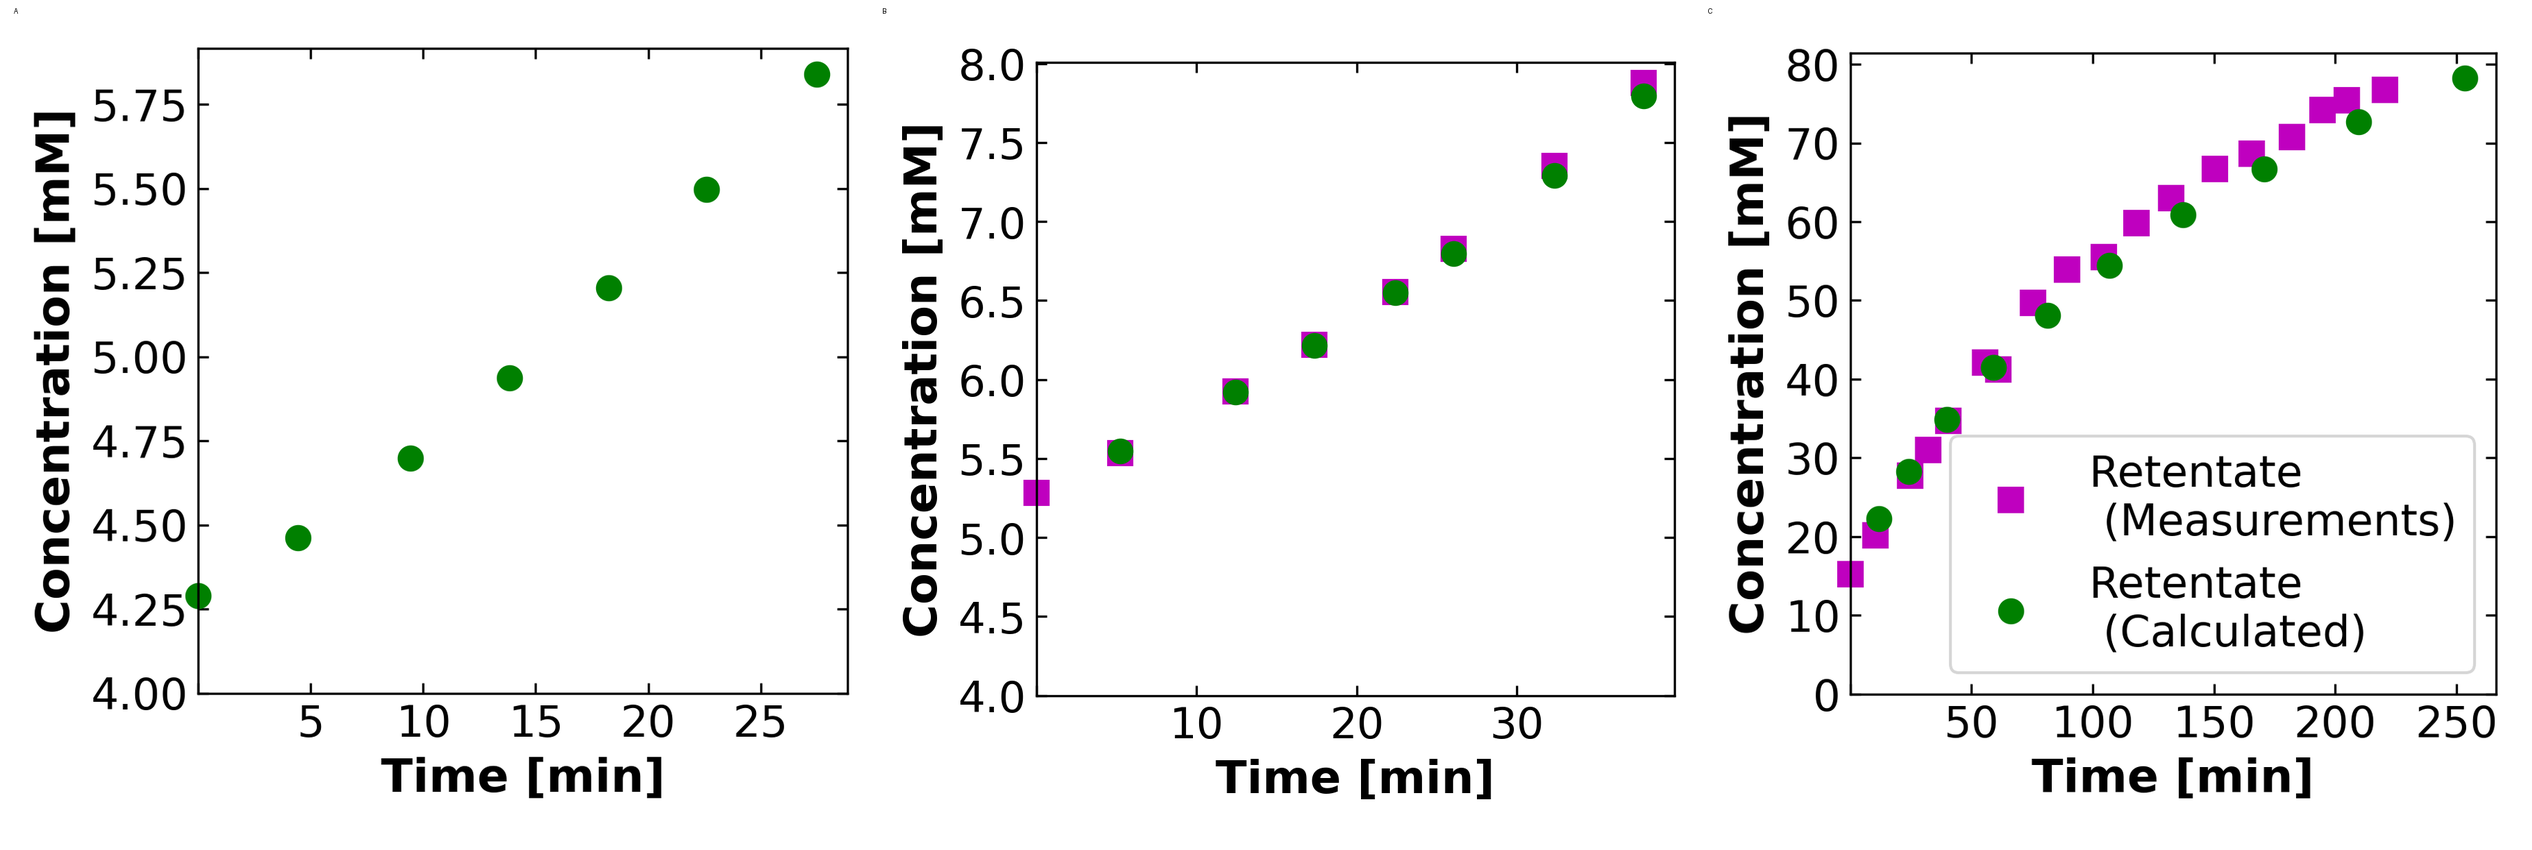
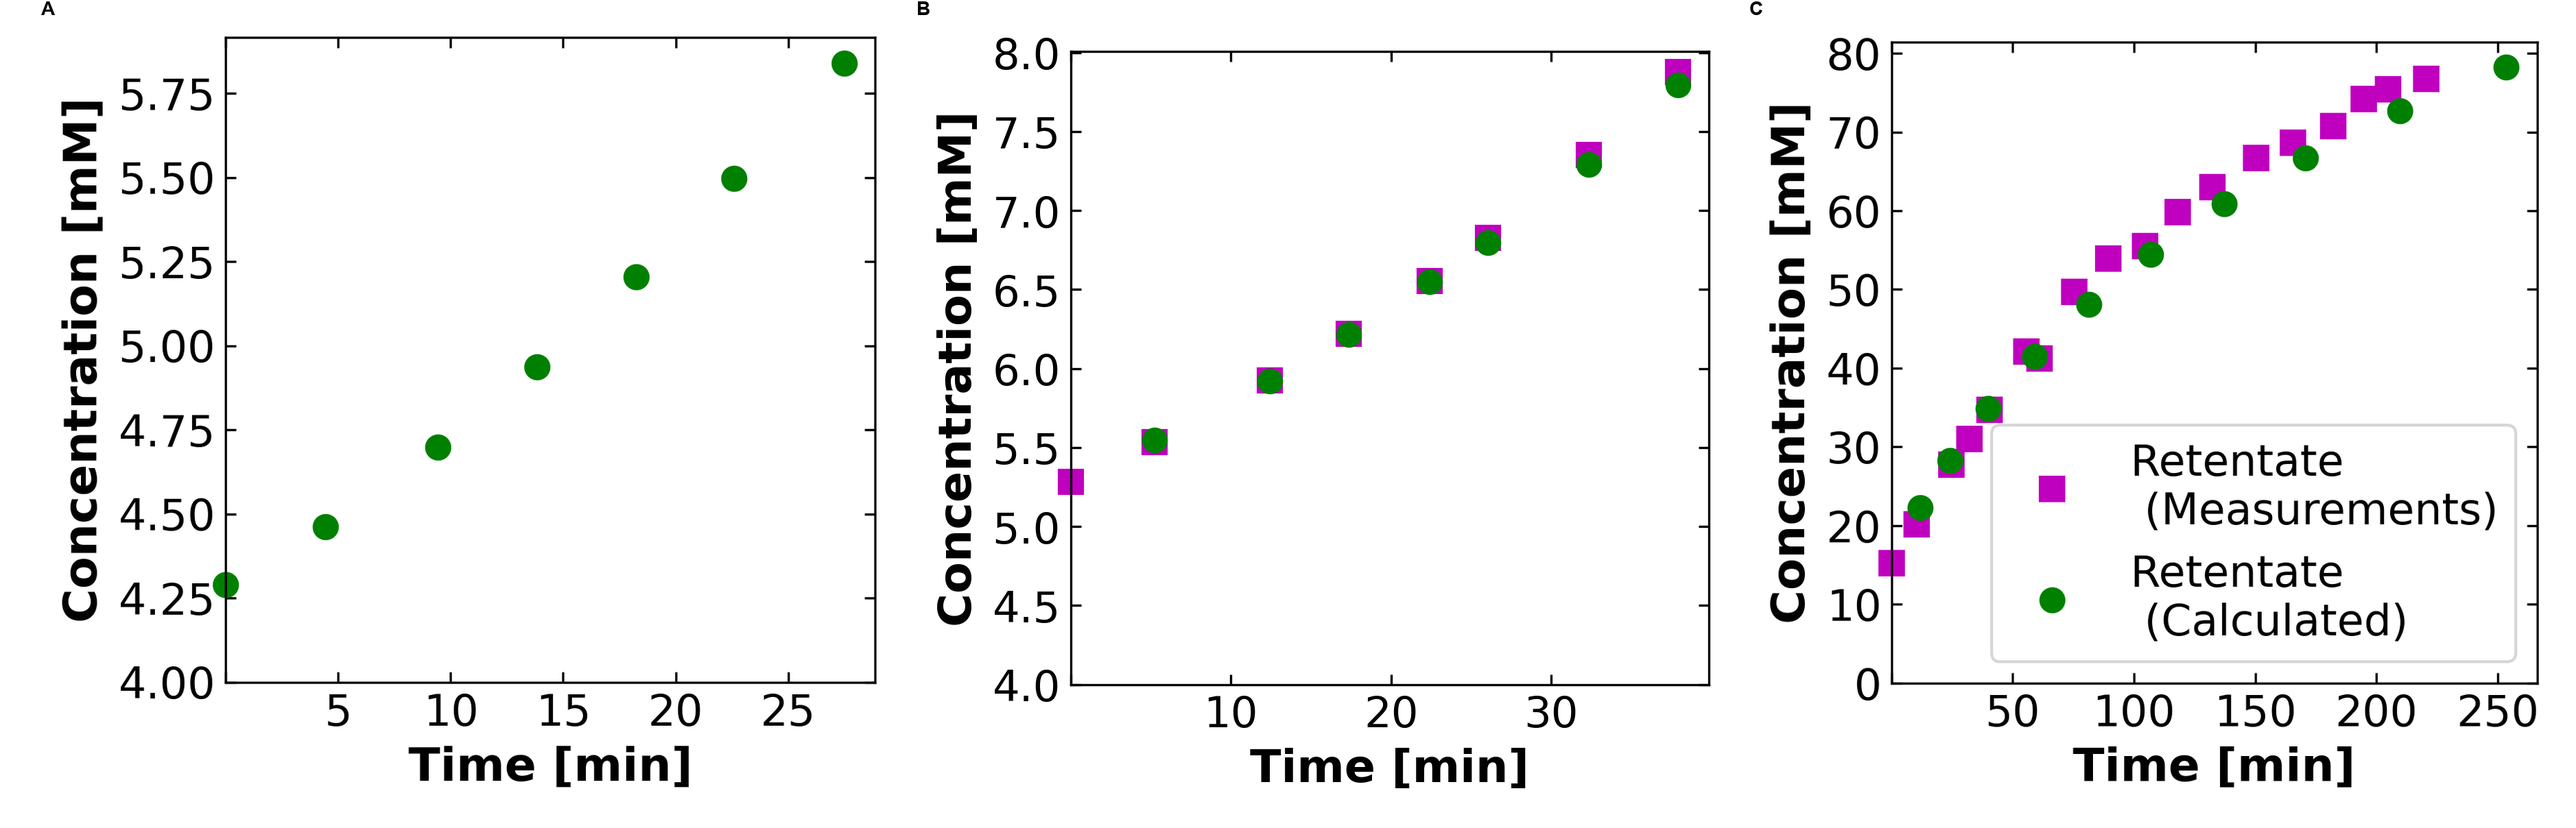
Add DATA1 SI figure workflows

diff --git a/refactored_codes_v1/refactored_ucb_library.py b/refactored_codes_v1/refactored_ucb_library.py
@@ -3371,7 +3371,7 @@ def calib_curve_cond(calib_curve, save_path=None):
 
 def run_data1_si_s2(data_root=None, save_dir=None):
     """Recreate DATA1 SI Figure S2 from the notebook's three concentration-ratio plots."""
-    root = _resolve_data_root(data_root)
+    root = _resolve_data1_figure2_root(data_root)
     save_dir = Path(save_dir) if save_dir is not None else root / "si_fig_s2"
     save_dir.mkdir(parents=True, exist_ok=True)
 
@@ -3434,33 +3434,87 @@ def run_data1_si_s2(data_root=None, save_dir=None):
         plt.close(fig)
         panel_paths.append(out_path)
 
-    # Compose the three panels into a single SI-style page image.
-    try:
-        from PIL import Image, ImageDraw
+    composite = _compose_data1_panel_grid(
+        [[panel_paths[0], panel_paths[1], panel_paths[2]]] if len(panel_paths) == 3 else [],
+        save_dir / "figure_s2.png",
+        row_labels=["A", "B", "C"],
+        label_mode="per_panel",
+        panel_margin=30,
+        row_margin=30,
+        outer_margin=24,
+    )
+    if composite is not None:
+        panel_paths.append(composite)
 
-        imgs = [Image.open(p).convert("RGB") for p in panel_paths]
-        # Keep the notebook aspect ratio while placing three panels side-by-side.
+    return [str(p) for p in panel_paths]
+
+
+def _compose_data1_panel_grid(
+    row_paths,
+    out_path,
+    row_labels=None,
+    label_mode="per_row",
+    panel_margin=10,
+    row_margin=14,
+    outer_margin=20,
+):
+    """Compose notebook-style DATA1 panel sheets from existing image panels."""
+    try:
+        from PIL import Image, ImageDraw, ImageFont
+    except Exception:
+        return None
+
+    rows = []
+    for row in row_paths:
+        valid = [Path(p) for p in row if Path(p).exists()]
+        if not valid:
+            continue
+        imgs = [Image.open(path).convert("RGB") for path in valid]
         target_h = max(im.height for im in imgs)
         resized = []
         for im in imgs:
             scale = target_h / im.height
-            new_size = (int(im.width * scale), target_h)
-            resized.append(im.resize(new_size, Image.Resampling.LANCZOS))
-        widths = [im.width for im in resized]
-        canvas = Image.new("RGB", (sum(widths) + 80, target_h + 80), "white")
-        draw = ImageDraw.Draw(canvas)
-        x = 20
-        for label, im in zip(["A", "B", "C"], resized):
-            draw.text((x, 10), label, fill="black")
-            canvas.paste(im, (x, 40))
-            x += im.width + 20
-        composite = save_dir / "figure_s2.png"
-        canvas.save(composite)
-        panel_paths.append(composite)
-    except Exception:
-        pass
+            resized.append(im.resize((int(im.width * scale), target_h), Image.Resampling.LANCZOS))
+        row_w = sum(im.width for im in resized) + panel_margin * max(0, len(resized) - 1)
+        row_h = target_h
+        rows.append((resized, row_w, row_h))
 
-    return [str(p) for p in panel_paths]
+    if not rows:
+        return None
+
+    try:
+        font = ImageFont.truetype("/System/Library/Fonts/Supplemental/Arial Bold.ttf", 28)
+    except Exception:
+        font = None
+
+    label_pad = 36 if row_labels else 0
+    width = max(row_w for _, row_w, _ in rows) + outer_margin * 2 + label_pad
+    height = sum(row_h for _, _, row_h in rows) + row_margin * max(0, len(rows) - 1) + outer_margin * 2
+    page = Image.new("RGB", (width, height), "white")
+    draw = ImageDraw.Draw(page)
+
+    y = outer_margin
+    label_iter = iter(row_labels or [])
+    for resized, _, row_h in rows:
+        x = outer_margin + label_pad
+        panel_labels = []
+        if label_mode == "per_row":
+            panel_labels = [next(label_iter, "")]
+        elif label_mode == "per_panel":
+            panel_labels = [next(label_iter, "") for _ in resized]
+        if label_mode == "per_row" and panel_labels:
+            draw.text((outer_margin, y + 4), panel_labels[0], fill="black", font=font)
+        for idx, im in enumerate(resized):
+            if label_mode == "per_panel" and idx < len(panel_labels):
+                draw.text((x, y - 28), panel_labels[idx], fill="black", font=font)
+            page.paste(im, (x, y))
+            x += im.width + panel_margin
+        y += row_h + row_margin
+
+    out_path = Path(out_path)
+    out_path.parent.mkdir(parents=True, exist_ok=True)
+    page.save(out_path)
+    return str(out_path)
 
 
 def _compose_data1_panel_sheet(row_paths, out_path):
@@ -3497,6 +3551,84 @@ def _compose_data1_panel_sheet(row_paths, out_path):
     out_path.parent.mkdir(parents=True, exist_ok=True)
     page.save(out_path)
     return str(out_path)
+
+
+def _run_data1_si_contour_figure(data_root, save_dir, figure_name, cases, contour_filename, prefix_base):
+    """Build one DATA1 SI contour page from notebook-style contour CSVs."""
+    root = _resolve_data1_figure2_root(data_root)
+    save_dir = Path(save_dir) if save_dir is not None else root / "data1_paper_figures"
+    save_dir.mkdir(parents=True, exist_ok=True)
+
+    outputs = []
+    row_groups = []
+    row_labels = []
+    for label, folder in cases:
+        csv_path = root / folder / contour_filename
+        if not csv_path.exists():
+            continue
+        df = pd.read_csv(csv_path)
+        prefix = f"{prefix_base}_{label.lower()}"
+        panel_paths = _plot_contour_data1_legacy(df, prefix, save_dir, show_title=False, preface=False)
+        outputs.extend(panel_paths)
+        row_groups.append([Path(path) for path in panel_paths])
+        row_labels.append(label)
+
+    composite = _compose_data1_panel_grid(
+        row_groups,
+        save_dir / figure_name,
+        row_labels=row_labels,
+        label_mode="per_row",
+        panel_margin=12,
+        row_margin=18,
+        outer_margin=22,
+    )
+    if composite is not None:
+        outputs.append(composite)
+    return outputs
+
+
+def run_data1_si_s3(data_root=None, save_dir=None):
+    """Recreate DATA1 SI Figure S3 from notebook diafiltration sigma contours."""
+    cases = [
+        ("A", "511.12 concpolar"),
+        ("B", "511.11 concpolar"),
+        ("C", "511.12"),
+        ("D", "511.11"),
+    ]
+    return _run_data1_si_contour_figure(data_root, save_dir, "figure_s3.png", cases, "contourdata-x_sigma-y_Lp.csv", "figure_s3_panel")
+
+
+def run_data1_si_s4(data_root=None, save_dir=None):
+    """Recreate DATA1 SI Figure S4 from notebook diafiltration B contours."""
+    cases = [
+        ("A", "511.12 concpolar"),
+        ("B", "511.11 concpolar"),
+        ("C", "511.12"),
+        ("D", "511.11"),
+    ]
+    return _run_data1_si_contour_figure(data_root, save_dir, "figure_s4.png", cases, "contourdata-x_B-y_Lp.csv", "figure_s4_panel")
+
+
+def run_data1_si_s5(data_root=None, save_dir=None):
+    """Recreate DATA1 SI Figure S5 from notebook filtration sigma contours."""
+    cases = [
+        ("A", "501.1 concpolar"),
+        ("B", "501.11 concpolar"),
+        ("C", "501.1"),
+        ("D", "501.11"),
+    ]
+    return _run_data1_si_contour_figure(data_root, save_dir, "figure_s5.png", cases, "contourdata-x_sigma-y_Lp.csv", "figure_s5_panel")
+
+
+def run_data1_si_s6(data_root=None, save_dir=None):
+    """Recreate DATA1 SI Figure S6 from notebook filtration B contours."""
+    cases = [
+        ("A", "501.1 concpolar"),
+        ("B", "501.11 concpolar"),
+        ("C", "501.1"),
+        ("D", "501.11"),
+    ]
+    return _run_data1_si_contour_figure(data_root, save_dir, "figure_s6.png", cases, "contourdata-x_B-y_Lp.csv", "figure_s6_panel")
 
 
 def run_data1_si_panel_sheets(save_dir=None):
@@ -4147,6 +4279,11 @@ def run_data1_notebook_workflow(data_root=None, save_dir=None, show=True):
     outputs.extend(run_data1_figure4_workflow(data_root=root, save_dir=save_dir))
     outputs.extend(run_data1_figure5_workflow(data_root=root, save_dir=save_dir))
     outputs.extend(run_data1_figure6_workflow(data_root=root, save_dir=save_dir))
+    outputs.extend(run_data1_si_s2(data_root=root, save_dir=save_dir))
+    outputs.extend(run_data1_si_s3(data_root=root, save_dir=save_dir))
+    outputs.extend(run_data1_si_s4(data_root=root, save_dir=save_dir))
+    outputs.extend(run_data1_si_s5(data_root=root, save_dir=save_dir))
+    outputs.extend(run_data1_si_s6(data_root=root, save_dir=save_dir))
     outputs.extend(run_data1_sigma_contours(data_root=root, save_dir=save_dir))
     outputs.extend(run_data1_concentration_comparison(data_root=root, save_dir=save_dir))
     outputs.extend(run_data1_figure2_workflow(data_root=root, save_dir=save_dir))

diff --git a/refactored_codes_v1/refactored_ucb_runfile.py b/refactored_codes_v1/refactored_ucb_runfile.py
@@ -74,6 +74,9 @@ DATA1_SI_FIGURES = [
     "data1_si_filtration_sigma.png",
     "data1_si_filtration_B.png",
     "figure_s3.png",
+    "figure_s4.png",
+    "figure_s5.png",
+    "figure_s6.png",
 ]
 
 DATA2_SI_FIGURES = [
